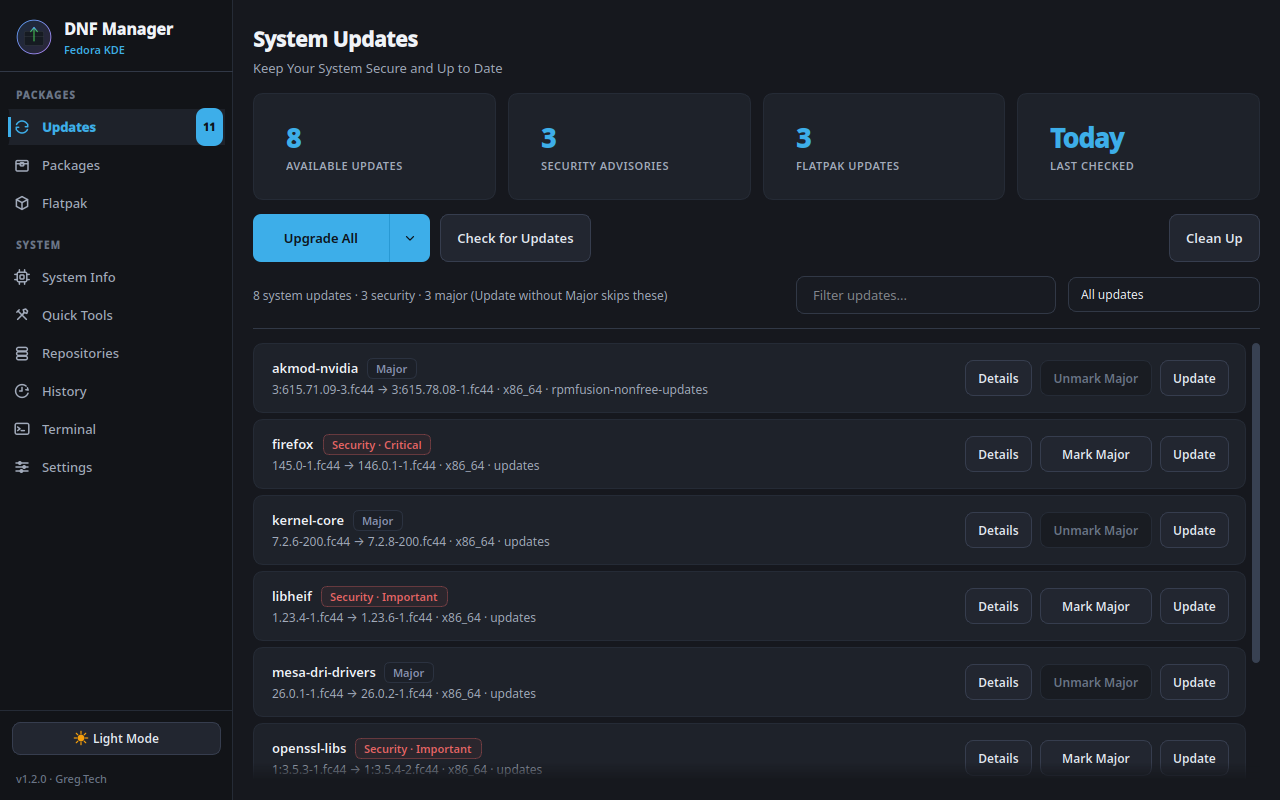
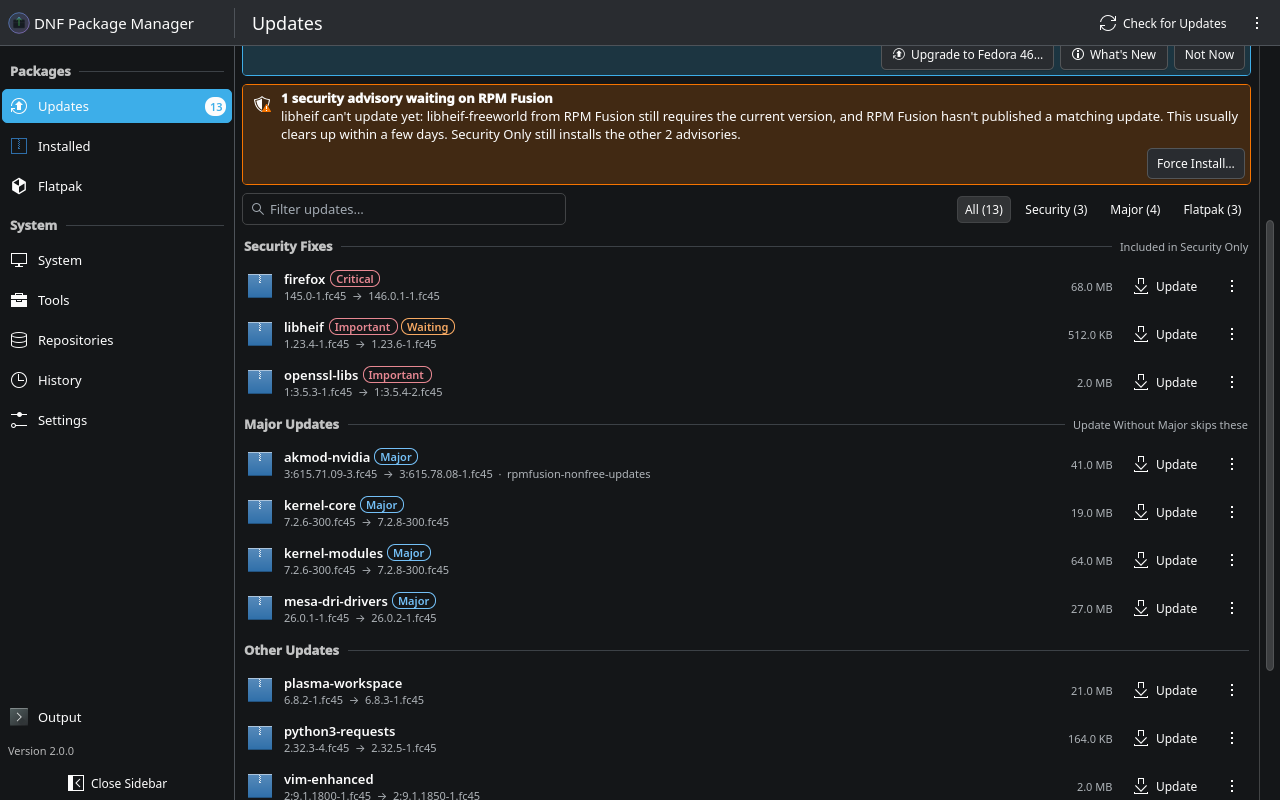
docs: describe the Kirigami interface
Screenshots, feature list, labels in the Discover guide and FAQ, and the
contributor notes (controllers, QML pitfalls, screenshot script) now match
the new interface.

diff --git a/README.md b/README.md
@@ -22,8 +22,8 @@
 </div>
 
 <p align="center">
-  <img src="docs/screenshots/updates-dark.png" width="49%" alt="Updates page with security tags, dark theme">
-  <img src="docs/screenshots/packages-search-light.png" width="49%" alt="Searching the repositories, light theme">
+  <img src="docs/screenshots/updates-dark.png" width="49%" alt="Updates page grouped into security fixes and major updates, dark">
+  <img src="docs/screenshots/updates-details-light.png" width="49%" alt="Package details beside the update list, light">
 </p>
 
 ---
@@ -39,7 +39,7 @@ Discover is a good app store. As the tool that keeps a Fedora system updated, it
 
 DNF Package Manager does the job the way you would in a terminal, with a proper desktop interface around it:
 
-- **Real commands, live output.** Upgrades run `dnf upgrade` and stream every line into a built-in terminal view. Copy the log with one click.
+- **Real commands, live output.** Upgrades run `dnf upgrade` and stream every line into an output bar that follows you between pages, with the current step and progress. Copy the log with one click.
 - **Updates apply now.** No reboot for every update. A banner tells you when a kernel or core library update actually needs a restart.
 - **You choose what gets updated.** One button, four modes: everything; everything plus Flatpaks; everything *except* the kernel, drivers, firmware and bootloader; or security fixes only. Star the mode you use most.
 - **Discover steps aside cleanly.** One click turns off Discover's update checks so you don't get duplicate notifications, and cancels any update it already scheduled for your next restart. One click brings it all back.
@@ -70,28 +70,29 @@ DNF Package Manager does the job the way you would in a terminal, with a proper 
 ## Features
 
 ### Updates
-- **One update button, your choice of mode.** The dropdown explains each mode and shows exactly what it would install. Star a mode to make it the main button; `Ctrl+U` runs it from anywhere.
+- **One clear status, one main button.** The Updates page says what's waiting and why it matters ("3 security advisories, 1 critical"), or that you're up to date and when it last checked. Never "up to date" when the check failed. The main button runs your chosen mode, with its count; **Other Ways to Update** lists the rest and what each would install. `Ctrl+U` runs the main one from anywhere.
   - **Upgrade All:** `dnf upgrade --refresh`.
   - **Update Everything:** system packages, then all Flatpak apps, in one session.
-  - **Update without Major:** everything except core packages (`kernel*`, `linux-firmware*`, `*-gpu-firmware`, `*nvidia*`, `akmod-*`, `mesa-*`, `grub2-*`, `shim-*`), via `dnf upgrade --exclude=…`.
+  - **Update Without Major:** everything except core packages (`kernel*`, `linux-firmware*`, `*-gpu-firmware`, `*nvidia*`, `akmod-*`, `mesa-*`, `grub2-*`, `shim-*`), via `dnf upgrade --exclude=…`.
   - **Security Only:** `dnf upgrade --security`.
-- **A list that tells you something.** Each row shows the installed and new version (`145.0 → 146.0.1`), tags security fixes with their severity, and tags **Major** updates (the ones Update without Major skips). Filter by name, or show only security or major updates.
-- **Decide what counts as major:** **Mark Major** / **Unmark Major** on any row, or edit the patterns in Settings.
+- **A list that tells you something.** Updates are grouped into Security Fixes, Major Updates, Other Updates and Flatpak Apps. Each row shows the installed and new version (`145.0 → 146.0.1`), the download size, the severity of security fixes, and a **Major** tag for updates Update Without Major skips. Filter by name, or by All, Security, Major or Flatpak.
+- **Details beside the list:** click an update for its security status, versions and `dnf info`, in a column next to the list.
+- **Decide what counts as major:** **Treat as Major** on any row's menu, or edit the patterns in Settings.
 - **Previews before you confirm:** package count and download size for every upgrade.
 - **Reboot banner** only when a kernel or core library update needs it.
 - **Fedora release upgrades.** When a new Fedora release is out (betas are never offered), a banner shows how long your current release keeps getting updates. It then walks you through Fedora's documented `dnf system-upgrade` flow: update, download the new release while you keep working, and restart only when you say so.
 
 ### Packages and Flatpaks
 - **Search the repositories** (Fedora, RPM Fusion, your COPRs) by name or description. Results show the version, the source repository and whether a package is already installed.
-- **Installed packages:** filter, sort, inspect and remove.
+- **Installed packages:** filter instantly, sort, open details beside the list, and remove.
 - **Clean Up** lists exactly what `dnf autoremove` would remove before you confirm.
 - **Flatpak manager:** search Flathub, install, update, remove, prune unused runtimes, repair.
 
 ### System
 - **System information:** OS, kernel, desktop, CPU, GPU, memory and storage at a glance.
-- **Quick Tools:** enable RPM Fusion and Flathub, firmware updates via `fwupdmgr`, clean or rebuild the DNF cache, distribution sync.
+- **Tools:** enable RPM Fusion and Flathub, firmware updates via `fwupdmgr`, clean or rebuild the DNF cache, distribution sync.
 - **Repositories:** enable or disable repos and add COPRs.
-- **History:** every DNF transaction, with undo.
+- **History:** every DNF transaction, with what it changed beside the list and undo.
 
 ### Settings
 - **Discover takeover** for your account, or for every account on the computer. Fully reversible. If Discover already scheduled updates for your next restart, the app tells you and can cancel them (`pkcon offline-cancel`), so PackageKit doesn't install a stale update set when you reboot.
@@ -99,8 +100,8 @@ DNF Package Manager does the job the way you would in a terminal, with a proper 
 - **Passwordless updates (optional):** a validated sudoers rule that lets the app's exact upgrade commands run without a password prompt, while installs and removals still ask. See [Security model](#security-model).
 
 ### Desktop
-- **Light and dark themes** in the Breeze style, with colors that meet WCAG AA contrast.
-- **Completion notifications** when a long operation finishes while you're in another window. Click one to return to the app; if the operation failed, **Show Output** opens the terminal.
+- **Native KDE Plasma interface** (Kirigami). It follows your color scheme, accent, fonts and light or dark setting; the colors it adds meet WCAG AA contrast in Breeze Light and Dark. Works with the keyboard and screen readers, and the sidebar folds to icons on narrow windows.
+- **Completion notifications** when a long operation finishes while you're in another window. Click one to return to the app; if the operation failed, **Show Output** opens its output.
 - **One window.** Opening the app while it's already running brings the existing window forward.
 - **Close during an update.** If you close the window while dnf is running, the operation finishes in the background and you get a notification. A failure brings the window back with the output.
 
@@ -108,7 +109,7 @@ DNF Package Manager does the job the way you would in a terminal, with a proper 
 
 ## Install
 
-**Requirements:** Fedora 40 or newer, Python 3.12+, `python3-pyqt6` and polkit. Built for KDE Plasma; it runs on any Fedora desktop, but the Discover takeover only matters on Plasma. Optional: `flatpak`, `fwupd`, `libnotify`. Fedora Atomic desktops (Kinoite, Silverblue) use rpm-ostree and aren't supported.
+**Requirements:** Fedora 40 or newer, Python 3.12+, `python3-pyqt6`, KDE's Kirigami (`kf6-kirigami`, `kf6-kirigami-addons`, `kf6-qqc2-desktop-style`) and polkit; the RPM and `install.sh` pull these in. Built for KDE Plasma; it runs on any Fedora desktop, but the Discover takeover only matters on Plasma. Optional: `flatpak`, `fwupd`, `libnotify`. Fedora Atomic desktops (Kinoite, Silverblue) use rpm-ostree and aren't supported.
 
 ### RPM (recommended)
 
@@ -131,7 +132,7 @@ Or run it without installing: `PYTHONPATH=src python3 -m dnf_gui`
 ### First run
 
 1. Open **DNF Package Manager** from the application menu (System), or run `dnf-gui`.
-2. Go to **Settings → Discover Update Checks** and click **Use This App Instead**.
+2. Go to **Settings → KDE Discover** and click **Use This App for Updates…**.
 3. Turn on **Update Reminders** if you want a notification when updates are waiting.
 
 The full walkthrough, including how to undo it, is in [Switching from Discover](docs/switching-from-discover.md).
@@ -145,7 +146,7 @@ The full walkthrough, including how to undo it, is in [Switching from Discover](
 | `Ctrl+U` | Run your main update option |
 | `Ctrl+R` | Refresh the current page |
 | `Ctrl+F` | Focus the search or filter field |
-| `Ctrl+T` | Open the live terminal |
+| `Ctrl+T` | Show or hide the output |
 | `Ctrl+1` … `Ctrl+9` | Switch pages |
 
 ## Command line
@@ -190,16 +191,17 @@ Before uninstalling, click **Restore Discover** in Settings, plus **Turn Back On
 Bug reports and pull requests are welcome on [GitHub](https://github.com/grpace/Fedora-DNF-GUI-Tool/issues).
 
 ```bash
-pip install pytest ruff                      # or: sudo dnf install python3-pytest ruff
+sudo dnf install python3-pytest ruff         # plus the Requirements above
 QT_QPA_PLATFORM=offscreen pytest             # tests need no network, root or real config
 ruff check src tests scripts                 # lint
-PYTHONPATH=src python3 scripts/check_contrast.py   # WCAG contrast check, both themes
+python3 scripts/check_contrast.py            # WCAG contrast of the app's colors, Breeze Light/Dark
+PYTHONPATH=src python3 scripts/screenshots.py /tmp/shots --demo   # every page, both themes
 ```
 
 ```
 src/dnf_gui/
   core/       dnf, Flatpak, security, release upgrades, settings, workers (no UI)
-  ui/         main window, sidebar, pages/, widgets/, styles/theme.py
+  ui/         controllers/ (Python state and actions for QML), qml/ (Kirigami pages)
 packaging/    RPM spec and AppStream metadata
 assets/       icon and desktop entry
 docs/         guides and screenshots

diff --git a/AGENTS.md b/AGENTS.md
@@ -1,23 +1,25 @@
 # DNF Package Manager (Fedora DNF GUI Tool)
 
-PyQt6 desktop app that replaces KDE Discover as the updater on Fedora KDE. Every action runs the real `dnf`/`dnf5` and `flatpak` commands and streams their output. It ships as a noarch RPM attached to GitHub releases, and installed copies update themselves from those releases. The repo is public (`grpace/Fedora-DNF-GUI-Tool`, default branch `master`).
+PyQt6 + Kirigami (QML) desktop app that replaces KDE Discover as the updater on Fedora KDE. Every action runs the real `dnf`/`dnf5` and `flatpak` commands and streams their output. It ships as a noarch RPM attached to GitHub releases, and installed copies update themselves from those releases. The repo is public (`grpace/Fedora-DNF-GUI-Tool`, default branch `master`).
 
 ## Stack
-- Python 3.12+ (the RPM requires `python3 >= 3.12`), PyQt6 6.6+. Runtime deps come from Fedora packages (`python3-pyqt6`, polkit), not pip. `requirements.txt` exists only for pip users.
+- Python 3.12+ (the RPM requires `python3 >= 3.12`), PyQt6 6.6+, KDE Kirigami 6 + Kirigami Addons (FormCard) + `org.kde.desktop` style, all from Fedora packages (the spec requires them by `qt6qml(...)` provides). pip's PyQt6 bundles its own Qt and can't load the system Kirigami, so there is no pip install path.
 - pytest and ruff are dev tools that are not declared anywhere. There is no ruff config, so ruff's default rules apply.
 - `uv.lock` and `.venv/` are local and gitignored. The `.venv` has no pytest, so run the commands below with the system `python3`.
 
 ## Commands
 - `QT_QPA_PLATFORM=offscreen pytest`: full suite (pytest config is in `pyproject.toml`, `pythonpath = src`). No network, root or real config needed.
 - `ruff check src tests scripts`: lint.
-- `PYTHONPATH=src python3 scripts/check_contrast.py`: WCAG AA contrast check of both theme palettes. Exits non-zero on failure.
+- `python3 scripts/check_contrast.py`: WCAG AA contrast of the colors the QML adds (pills, secondary text) against Breeze Light/Dark. Exits non-zero on failure.
+- `PYTHONPATH=src python3 scripts/screenshots.py OUT --demo [--strict] [--theme light|dark]`: renders every page offscreen with sample data (`scripts/demo_data.py`); `--strict` fails on any QML warning. Without `--demo` it shows this system's real data (read-only).
 - `PYTHONPATH=src python3 -m dnf_gui`: run from source. On a real system it calls dnf, GitHub and possibly pkexec.
 - `./build-rpm.sh`: builds the RPM from the version in `packaging/dnf-gui.spec`. The rpmbuild tree goes in `~/.cache/rpmbuild/dnf-gui` (override with `RPMBUILD_TOPDIR`) and the release copy goes to `dist/DNF-Package-Manager-vX.Y.Z.rpm` (gitignored).
 - `appstreamcli validate --no-net packaging/dnf-gui.metainfo.xml` and `desktop-file-validate assets/dnf-gui.desktop`: metadata checks.
 
 ## Where Things Live
 - `src/dnf_gui/core/`: dnf/flatpak backends, security, passwordless sudoers, Discover takeover, release upgrades, self-updater and QThread workers. Keep it UI-free.
-- `src/dnf_gui/ui/styles/theme.py`: both palettes. `check_contrast.py` reads `get_palette()`, so color changes must pass it.
+- `src/dnf_gui/ui/controllers/`: the QML-facing Python. `AppController` (root, exposed as `App`), `OperationRunner` (every command: passwordless swap, sudo→pkexec retry, cancel, output), `Prompts` (async confirmations, one at a time), and page controllers. `ui/qml/`: Kirigami pages. `ui/window.py` loads `Main.qml`.
+- Colors come from `Kirigami.Theme`. The few the app derives (pills, secondary text blend) must match `check_contrast.py`'s `PILL_MIX`/`SECONDARY_MIX`.
 - `packaging/`: RPM spec and AppStream metainfo. `assets/dnf-gui.desktop` is shared by the spec and `install.sh`.
 - `RELEASING.md`: the release checklist. Follow it rather than improvising.
 
@@ -31,10 +33,12 @@ PyQt6 desktop app that replaces KDE Discover as the updater on Fedora KDE. Every
 - The version lives in five places: `pyproject.toml`, `src/dnf_gui/__init__.py` (the sidebar and self-updater read it), the `Version:` and `%changelog` in `packaging/dnf-gui.spec`, a `<release>` in the metainfo, and `CHANGELOG.md`. If you miss `__init__.py`, installed copies keep offering the same update.
 - rpmbuild runs outside the project dir because the spaces in this checkout's path break `%install`. Don't move `TOPDIR` back into the repo.
 - The self-updater (`core/updater.py`) downloads the `.rpm` asset of the latest GitHub release and verifies it against the SHA-256 digest GitHub computed on upload. Never rename, replace or re-upload a published asset. Ship a new version instead.
-- `tests/conftest.py` stubs the update-check, self-update and reminder workers, and sets a temporary `XDG_CONFIG_HOME`. New code that starts network or dnf work from `MainWindow` needs a stub there, or tests hit the network or abort with "QThread: Destroyed while thread is still running". Use the single session `QApplication`; don't create another one.
+- `tests/conftest.py` stubs the update-check, self-update and reminder workers, and sets a temporary `XDG_CONFIG_HOME`. New code that starts network or dnf work from `AppController` needs a stub there, or tests hit the network or abort with "QThread: Destroyed while thread is still running". Use the single session `QApplication`; don't create another one. Answer prompts with `tests.conftest.answer(controller, "yes", ...)`.
+- Confirmations are async (`prompts.confirm(title, text, on_yes, ...)`); never block a slot waiting for an answer. Destructive prompts pass `destructive=True` (default No).
+- QML: role or property names `id`, `enabled`, `action`, `icon`, `text` clash with QtQuick/QQC2 properties ("Cannot override FINAL property"); read such roles through `required property var model`. Every controller class declares its own `changed = pyqtSignal()` (PyQt needs the notify signal in the same class). Pages are created by `Main.qml` inside a hidden holder, because Kirigami's ColumnView hands a removed page back to its original parent. `ui/i18n.py` supplies `i18n*()` for Kirigami Addons (no KI18n under PyQt). `console.log` is filtered on Fedora; QML errors from `Qt.createComponent` reach the Qt message handler, not `engine.warnings`, so tests install a message handler.
 
 ## Before Calling a Change Done
-Run pytest, ruff and the contrast check. For UI changes, launch the app and check the affected pages in light and dark mode. For packaging changes, also run `./build-rpm.sh` and `rpm -qlp` the result.
+Run pytest (it includes an offscreen QML smoke test), ruff and the contrast check. For UI changes, run `scripts/screenshots.py --demo --strict` and look at the affected pages in light and dark, then launch the app for real. For packaging changes, also run `./build-rpm.sh` and `rpm -qlp` the result.
 
 ## Git
 - Conventional commits (`fix:`, `feat(ui):`, `docs:`, `build:`). Release commits are `Release vX.Y.Z`.

diff --git a/docs/switching-from-discover.md b/docs/switching-from-discover.md
@@ -4,7 +4,7 @@ This guide moves update duty from KDE Discover to DNF Package Manager on Fedora 
 
 You don't have to uninstall Discover. Most people keep it for browsing apps and Plasma add-ons; this only turns off its *update* checks so the two apps don't both nag you about the same updates.
 
-<p align="center"><img src="screenshots/settings-discover-dark.png" width="80%" alt="Settings page, Discover Update Checks card"></p>
+<p align="center"><img src="screenshots/settings-discover-dark.png" width="80%" alt="Settings page, KDE Discover section"></p>
 
 ## 1. Install DNF Package Manager
 
@@ -18,16 +18,16 @@ Open it from the application menu (**System → DNF Package Manager**) or run `d
 
 ## 2. Turn off Discover's update checks
 
-Go to **Settings → Discover Update Checks** and click **Use This App Instead**. This is per-user and needs no password. It:
+Go to **Settings → KDE Discover** and click **Use This App for Updates…**. This is per-user and needs no password. It:
 
 - hides Discover's background update checker for your account (a `Hidden=true` override in `~/.config/autostart/org.kde.discover.notifier.desktop`), and
 - sets Discover's own update notifications to "never" (`~/.config/PlasmaDiscoverUpdates`).
 
-The takeover also stops the checker that's already running. If it ever comes back (for example after you restore Discover and take over again), **Advanced Options → Stop Checker Now** stops it.
+The takeover also stops the checker that's already running. If it ever comes back (for example after you restore Discover and take over again), turn on **Show advanced options** and choose **Stop the Checker Now**.
 
 ### If Discover already scheduled an update
 
-Discover on Fedora KDE installs system updates during a restart. If it has already scheduled one, the takeover offers to cancel it, and the Settings card shows **Cancel Restart Update** until it's gone. Cancelling is the better choice: otherwise PackageKit installs its own, possibly out-of-date, set of updates at your next restart, even after this app has updated those packages. Nothing is uninstalled; the downloaded packages simply stay in PackageKit's cache.
+Discover on Fedora KDE installs system updates during a restart. If it has already scheduled one, the takeover offers to cancel it, and Settings shows **Cancel Discover's Restart Update…** until it's gone. Cancelling is the better choice: otherwise PackageKit installs its own, possibly out-of-date, set of updates at your next restart, even after this app has updated those packages. Nothing is uninstalled; the downloaded packages simply stay in PackageKit's cache.
 
 From a terminal, the same thing is:
 
@@ -38,7 +38,7 @@ pkcon offline-cancel          # unschedule it
 
 ### For every account on this computer (optional)
 
-**Advanced Options → Turn Off for All Users** asks for an administrator password and:
+**Show advanced options → Turn Off for All Users…** asks for an administrator password and:
 
 - masks the checker's systemd unit for all users (`systemctl --global mask app-org.kde.discover.notifier@autostart.service`),
 - silences Discover's update notifications by default in `/etc/xdg/PlasmaDiscoverUpdates`, leaving any file an administrator already put there alone, and
@@ -46,7 +46,7 @@ pkcon offline-cancel          # unschedule it
 
 These changes survive Discover package updates. PackageKit itself keeps running, so installing apps from Discover still works. Fedora release upgrades started from DNF Package Manager use dnf's own offline mechanism and aren't affected.
 
-**Advanced Options → Uninstall Checker** goes further and removes the `plasma-discover-notifier` package while keeping Discover itself.
+**Show advanced options → Uninstall the Update Checker…** goes further and removes the `plasma-discover-notifier` package while keeping Discover itself.
 
 ## 3. Set up reminders
 
@@ -92,8 +92,8 @@ It's only a cache. Discover rebuilds what it needs the next time you open it.
 
 ## Going back to Discover
 
-1. **Settings → Discover Update Checks → Restore Discover** undoes the per-user takeover.
-2. If you used **Turn Off for All Users**, click **Advanced Options → Turn Back On**. This unmasks everything and restores the checker's autostart entry if an older version of this app removed it.
+1. **Settings → KDE Discover → Let Discover Check Again** undoes the per-user takeover.
+2. If you used **Turn Off for All Users**, choose **Show advanced options → Turn Back On for All Users…**. This unmasks everything and restores the checker's autostart entry if an older version of this app removed it.
 3. If you used **Uninstall Checker**, reinstall it: `sudo dnf install plasma-discover-notifier`.
 4. Turn off **Update Reminders** so you don't get two sets of notifications.
 

diff --git a/docs/faq.md b/docs/faq.md
@@ -36,7 +36,7 @@ Fedora's documented steps:
 2. `dnf system-upgrade download --releasever=N`
 3. `dnf system-upgrade reboot`, only when you click **Restart & Install**
 
-If step 2 fails because some packages (often from a COPR or third-party repo) have no build for the new release yet, the app offers to retry with `--allowerasing`. Check the terminal output first to see which packages would be removed. A finished download can be cancelled from the Updates page (`dnf system-upgrade clean`).
+If step 2 fails because some packages (often from a COPR or third-party repo) have no build for the new release yet, the app offers to retry with `--allowerasing`. Check the output first to see which packages would be removed. A finished download can be cancelled from the Updates page (`dnf system-upgrade clean`).
 
 On Fedora 40, which uses dnf4, release upgrades need dnf's system-upgrade plugin: `sudo dnf install dnf-plugin-system-upgrade`. Fedora 41 and later include it.
 
@@ -74,4 +74,4 @@ There's no telemetry or analytics.
 
 ### Something failed. How do I report it?
 
-Open the **Terminal** page, click **Copy Output**, and paste the log into a [GitHub issue](https://github.com/grpace/Fedora-DNF-GUI-Tool/issues) along with your Fedora version (`cat /etc/fedora-release`).
+Open the output (the bar at the bottom, or `Ctrl+T`), click **Copy Output**, and paste the log into a [GitHub issue](https://github.com/grpace/Fedora-DNF-GUI-Tool/issues) along with your Fedora version (`cat /etc/fedora-release`).
